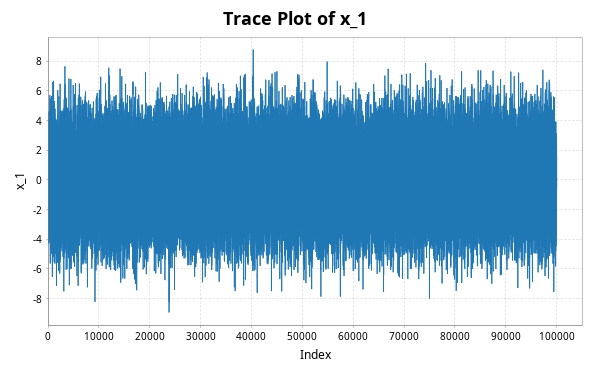
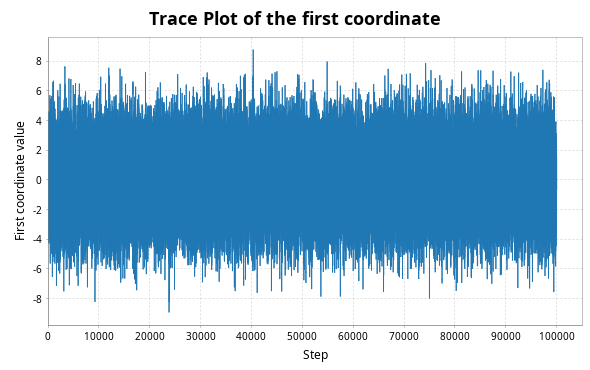
Made the image sizes more consistent

Changed region(s): [[0.2441, 0.0297, 0.7627, 0.0892], [0.0305, 0.327, 0.061, 0.6541], [0.4881, 0.9514, 0.5797, 0.9811]]

diff --git a/AM_in_JAX.py b/AM_in_JAX.py
@@ -200,13 +200,13 @@ import matplotlib.pyplot as plt
 def plotter(sample, file_path):
     
     first = sample[:,0]
-    plt.figure(figsize=(10,6))
+    plt.figure(figsize=(590/96,370/96))
     plt.plot(first)
     plt.title('Trace plot of the first coordinate')
     plt.xlabel('Step')
     plt.ylabel('First coordinate value')
     plt.grid(True)
-    plt.savefig(file_path)
+    plt.savefig(file_path, dpi=96)
 
 def main():
     
